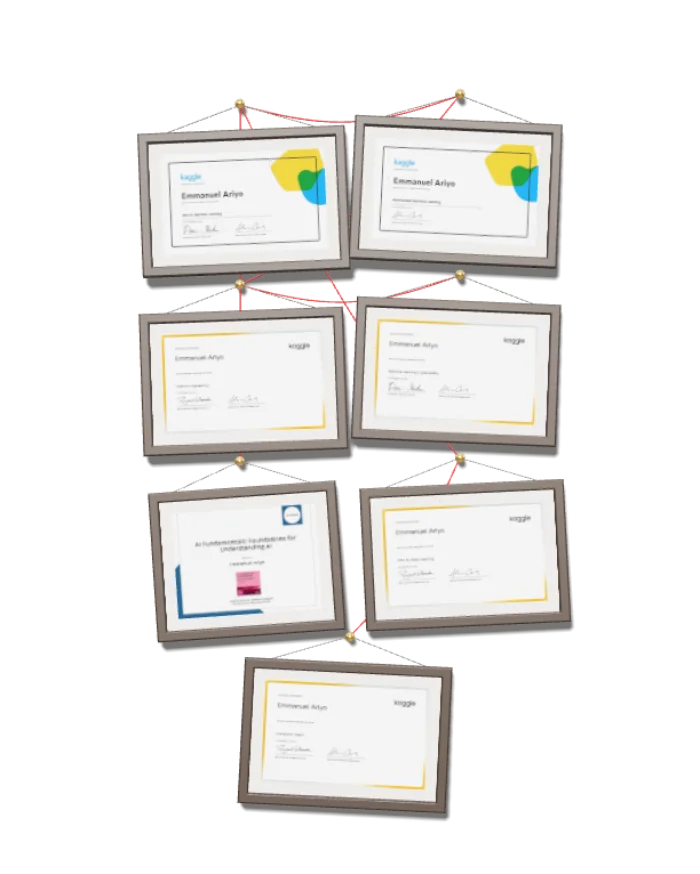
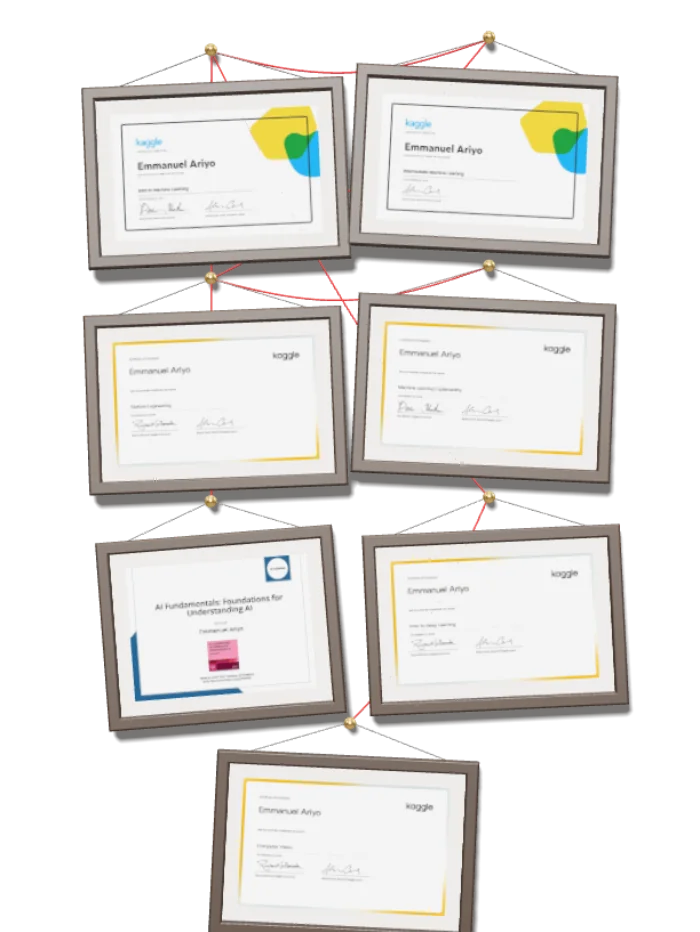
Ask About Me: switch to Groq's current models (llama-3.3-70b was retired) with a fallback; Work page now uses the landing sections; bigger certificates on phones

Changed region(s): [[0.09, 0.0309, 0.9, 1.0]]

diff --git a/app/work/page.tsx b/app/work/page.tsx
@@ -1,25 +1,38 @@
 import type { Metadata } from "next";
 import { buildMeta } from "@/lib/metadata";
-import { WorkClientPage } from "./WorkClientPage";
+import { ProjectsShowcase } from "@/components/sections/ProjectsShowcase";
+import { OpenModels } from "@/components/sections/OpenModels";
+import { AutomationSection } from "@/components/sections/Automation";
+import { GamesSection } from "@/components/sections/Games";
 
 export const metadata: Metadata = buildMeta({
-  title: "Portfolio, High-Quality Websites & AI Systems | Emmanuel Ariyo",
+  title: "Work: products, open models, automation and games | Emmanuel Ariyo",
   description:
-    "See the premium websites, SaaS platforms, AI systems, and automation tools built by Emmanuel Ariyo (Ememzyvisuals). Real projects, real users, real results.",
+    "Live products on their own screens, open speech and language models for African languages, AI automation and browser games, built by Emmanuel Ariyo.",
   path: "/work",
   ogTitle: "Emmanuel Ariyo's Work",
-  ogSubtitle:
-    "10+ production apps, websites, AI platforms & automation tools",
-  ogTag: "Portfolio",
-  tags: [
-    "web developer portfolio Nigeria",
-    "high quality website examples",
-    "AI developer portfolio",
-    "best Nigerian developer portfolio",
-    "website development examples",
-  ],
+  ogSubtitle: "Products, open models, automation and games",
+  ogTag: "Work",
+  tags: ["AI engineer portfolio", "speech AI African languages", "Nigerian developer portfolio", "open source models"],
 });
 
+const divider = (
+  <div className="container-padded">
+    <div className="section-divider" />
+  </div>
+);
+
+// Same sections as the landing page, so /work and the home page always match.
 export default function WorkPage() {
-  return <WorkClientPage />;
+  return (
+    <div className="pt-24">
+      <ProjectsShowcase showAll={false} />
+      {divider}
+      <OpenModels />
+      {divider}
+      <AutomationSection />
+      {divider}
+      <GamesSection />
+    </div>
+  );
 }

diff --git a/lib/groq.ts b/lib/groq.ts
@@ -6,7 +6,9 @@ export const groq = new Groq({
   apiKey: process.env.GROQ_API_KEY || "not-set",
 });
 
-export const CHAT_MODEL = "llama-3.3-70b-versatile";
+// llama-3.3-70b-versatile was retired from Groq's free tier (Aug 2026); these are its official replacements
+export const CHAT_MODEL = "openai/gpt-oss-120b";
+export const FALLBACK_MODEL = "qwen/qwen3.6-27b";
 
 export const SYSTEM_PROMPT = `You are an intelligent personal assistant for Emmanuel Ariyo, known as Ememzyvisuals, a Web Developer, AI Systems Engineer, and Business Automation Expert based in Nigeria.
 
@@ -49,11 +51,20 @@ export async function streamChat(
 CONTEXT ABOUT EMMANUEL (use this to answer questions):
 ${context}`;
 
-  return groq.chat.completions.create({
-    model: CHAT_MODEL,
-    messages: [{ role: "system", content: systemWithContext }, ...messages],
-    max_tokens: 800,
-    temperature: 0.4,
-    stream: true,
-  });
+  const ask = (model: string) =>
+    groq.chat.completions.create({
+      model,
+      messages: [{ role: "system", content: systemWithContext }, ...messages],
+      max_tokens: 1200,
+      temperature: 0.4,
+      stream: true,
+      // show only the answer, not the model's private reasoning
+      ...({ reasoning_format: "hidden", reasoning_effort: "low" } as Record<string, unknown>),
+    } as Parameters<typeof groq.chat.completions.create>[0]) as unknown as Promise<AsyncIterable<{ choices: { delta?: { content?: string } }[] }>>;
+  try {
+    return await ask(CHAT_MODEL);
+  } catch (e) {
+    console.error("Chat model failed, trying fallback:", (e as Error).message);
+    return await ask(FALLBACK_MODEL);
+  }
 }

diff --git a/components/sections/ProjectsShowcase.tsx b/components/sections/ProjectsShowcase.tsx
@@ -13,7 +13,7 @@ import { ALL_PROJECTS } from "@/data/projects";
 const ON_DEVICES = ["claudgpt", "aethlife", "flonextv", "naijaprep", "studenthub", "nairanest", "storejet", "artoluwani"];
 const SHOT: Record<string, string> = { studenthub: "studenthub", artoluwani: "artoluwani" };
 
-export function ProjectsShowcase() {
+export function ProjectsShowcase({ showAll = true }: { showAll?: boolean } = {}) {
   const items = ON_DEVICES.map((key) => ({
     key,
     p: ALL_PROJECTS.find((x) => x.slug === key || x.slug?.startsWith(key) || x.coverImage?.includes(`/${key}-`)),
@@ -89,9 +89,9 @@ export function ProjectsShowcase() {
           );
         })}
       </div>
-      <div className="mt-20 flex justify-center">
+      {showAll && <div className="mt-20 flex justify-center">
         <Link href="/work" className="btn-outline text-sm">See all projects</Link>
-      </div>
+      </div>}
     </section>
   );
 }

diff --git a/components/three/certs/wallStage.ts b/components/three/certs/wallStage.ts
@@ -308,7 +308,7 @@ export function mountWall(el: HTMLElement, items: WallItem[], opts: { dark: bool
     tiltS.lerp(tilt, 1 - Math.exp(-dt * 3));
 
     // camera: fit the whole wall, or come close to the opened certificate
-    const fitW = tall ? 7.2 : 13, fitH = tall ? 11.2 : 7.4;
+    const fitW = tall ? 5.6 : 12, fitH = tall ? 8.6 : 6.8;
     const vf = THREE.MathUtils.degToRad(camera.fov);
     const distW = fitW / 2 / Math.tan(vf / 2) / camera.aspect, distH = fitH / 2 / Math.tan(vf / 2);
     let target = new THREE.Vector3(tiltS.x * 0.5, (tall ? 0.6 : 0.15) - tiltS.y * 0.25, Math.max(distW, distH) + (1 - intro) * 4);

diff --git a/components/three/certs/CertificateWall.tsx b/components/three/certs/CertificateWall.tsx
@@ -45,7 +45,7 @@ export function CertificateWall() {
 
   return (
     <div>
-    <div className="relative aspect-[4/5] w-full overflow-hidden rounded-3xl sm:aspect-[16/9]">
+    <div className="relative aspect-[3/4] w-full overflow-hidden rounded-3xl sm:aspect-[16/9]">
       {state !== "ready" && (
         // eslint-disable-next-line @next/next/no-img-element
         <img src={`/stills/certs-${dark ? "dark" : "light"}.webp`} alt="Emmanuel's certificates framed on a wall, joined by red thread in the order he took them"
